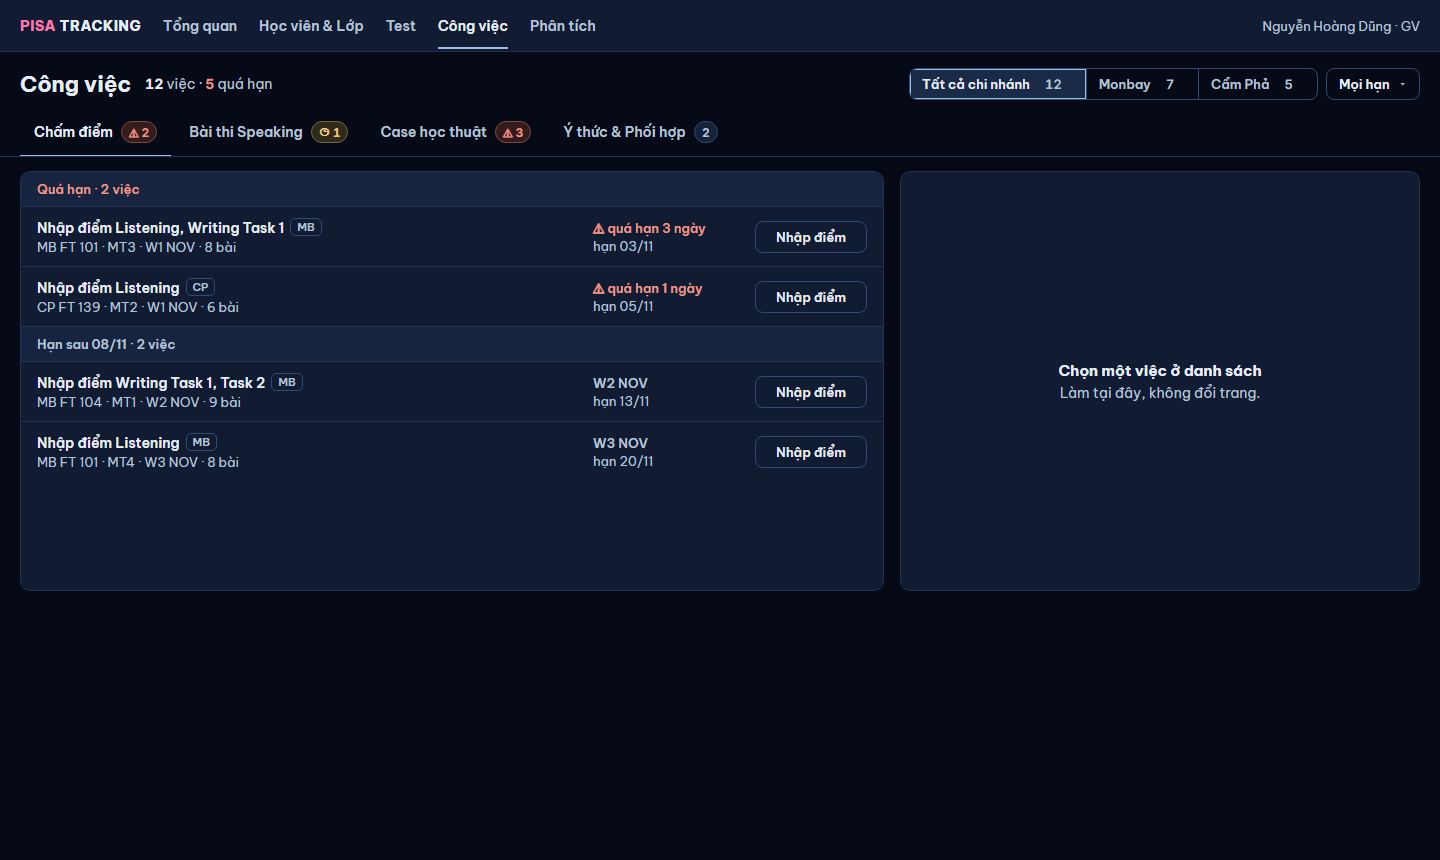
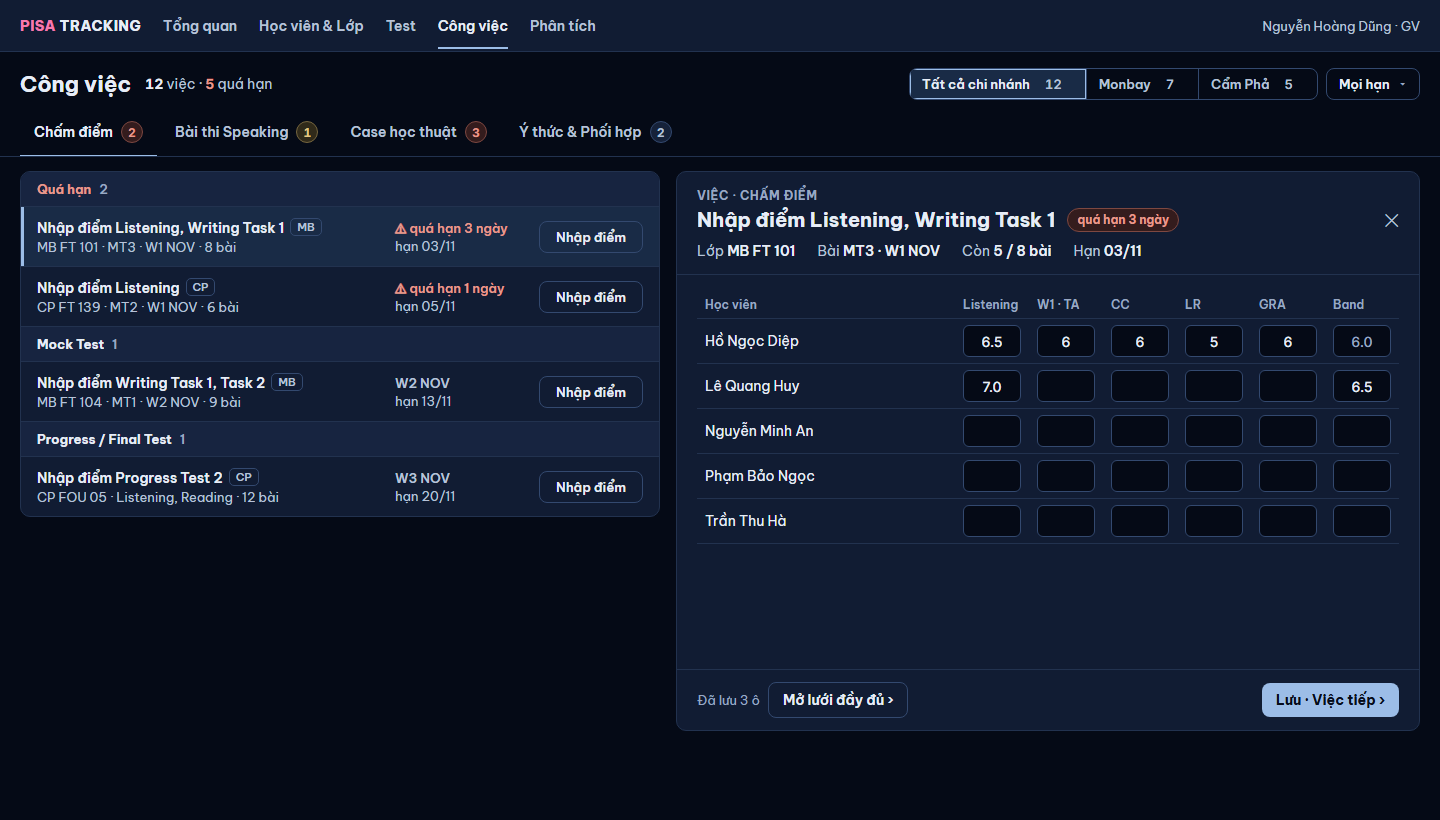
nháp v2 Công việc chia tab: badge số + màu, mục theo loại việc, panel rộng (chủ SP 06/11)

diff --git a/thiet-ke/v17-nhap/b.html b/thiet-ke/v17-nhap/b.html
@@ -2,44 +2,48 @@
 <link rel="stylesheet" href="https://fonts.googleapis.com/css2?family=Be+Vietnam+Pro:wght@400;500;600;700;800&family=Inter:wght@500;600;700&display=swap">
 <link rel="stylesheet" href="cv.css"><title>Nháp B</title>
 <style>body{display:flex;gap:28px;padding:20px;align-items:flex-start;background:#d9dde6}
-.leg{width:520px;display:grid;gap:12px}.leg .man{padding:16px;border-radius:10px}.leg .hang{display:flex;gap:10px;align-items:center;margin:6px 0}</style></head><body>
-<div class="man sang m375" style="min-height:780px;border-radius:10px;overflow:hidden">
+.leg{width:540px;display:grid;gap:12px}.leg .man{padding:16px;border-radius:10px}.leg .hang{display:flex;gap:10px;align-items:center;margin:6px 0}</style></head><body>
+<div class="man sang m375" style="min-height:860px;border-radius:10px;overflow:hidden">
   <div class="nav"><span class="logo"><b>PISA</b></span><span class="phai">Dũng · GV</span></div>
   <div class="dau">
     <h1>Công việc</h1><span class="tom"><b class="so">12</b> việc · <b class="so" style="color:var(--bad)">5</b> quá hạn</span>
     <div class="loc"><span class="seg" style="width:100%"><span class="dang" style="flex:1">Tất cả CN <span class="so">12</span></span><span style="flex:1">Monbay <span class="so">7</span></span><span style="flex:1">Cẩm Phả <span class="so">5</span></span></span></div>
   </div>
   <div class="tabs">
-    <span class="tab dang">Chấm điểm <span class="bd do">2</span></span>
+    <span class="tab">Chấm điểm <span class="bd do">2</span></span>
     <span class="tab">Speaking <span class="bd vang">1</span></span>
-    <span class="tab">Case học thuật <span class="bd do">3</span></span>
+    <span class="tab dang">Case học thuật <span class="bd do">3</span></span>
     <span class="tab">Ý thức <span class="bd trang">2</span></span>
   </div>
   <div class="than">
     <div class="ds">
-      <div class="nhom-han qua">Quá hạn · 2 việc</div>
-      <div class="viec"><div><div class="t1">Nhập điểm L, W1<span class="cn">MB</span></div><div class="t2">MB FT 101 · MT3 · 8 bài</div></div><span class="nut">Nhập</span>
-        <div class="cot-han"><div class="han qua">quá hạn 3 ngày</div></div></div>
-      <div class="viec"><div><div class="t1">Nhập điểm Listening<span class="cn">CP</span></div><div class="t2">CP FT 139 · MT2 · 6 bài</div></div><span class="nut">Nhập</span>
-        <div class="cot-han"><div class="han qua">quá hạn 1 ngày</div></div></div>
-      <div class="nhom-han">Hạn sau 08/11 · 2 việc</div>
-      <div class="viec"><div><div class="t1">Nhập điểm W1, W2<span class="cn">MB</span></div><div class="t2">MB FT 104 · MT1 · 9 bài</div></div><span class="nut">Nhập</span>
+      <div class="muc qua">Quá hạn <span class="n">3</span></div>
+      <div class="viec"><div><div class="t1">Mô tả Case Reading · MT3<span class="cn">CP</span></div><div class="t2">Mạc Lê Ngọc Linh · CP FT 139</div></div><span class="nut">Mô tả</span>
+        <div class="cot-han"><div class="han qua">quá hạn 24 ngày</div></div></div>
+      <div class="viec"><div><div class="t1">Kết quả PA · 2 em<span class="cn">CP</span></div><div class="t2">CP FT 139 · đợt W2 SEP</div></div><span class="nut">2 em ▾</span>
+        <div class="cot-han"><div class="han qua">quá hạn 10 ngày</div></div></div>
+      <div class="viec"><div><div class="t1">Xác nhận PA · Writing<span class="cn">MB</span></div><div class="t2">Vũ Hải Đăng · MB FT 101</div></div><span class="nut">Xác nhận</span>
+        <div class="cot-han"><div class="han qua">quá hạn 2 ngày</div></div></div>
+      <div class="muc">Mô tả Case <span class="n">1</span></div>
+      <div class="viec"><div><div class="t1">Mô tả Case Writing · MT3<span class="cn">CP</span></div><div class="t2">Tô Xuân Tùng · CP FT 139</div></div><span class="nut">Mô tả</span>
         <div class="cot-han"><div class="han xa">W2 NOV</div></div></div>
-      <div class="viec"><div><div class="t1">Nhập điểm Listening<span class="cn">MB</span></div><div class="t2">MB FT 101 · MT4 · 8 bài</div></div><span class="nut">Nhập</span>
-        <div class="cot-han"><div class="han xa">W3 NOV</div></div></div>
+      <div class="muc">Phương án <span class="n">1</span></div>
+      <div class="viec"><div><div class="t1">Xác nhận PA · Listening<span class="cn">CP</span></div><div class="t2">Đỗ Khắc Huy · CP FT 139</div></div><span class="nut">Xác nhận</span>
+        <div class="cot-han"><div class="han gan">còn 1 ngày</div></div></div>
     </div>
   </div>
 </div>
 <div class="leg">
-  <div class="man toi"><div style="font-weight:700;margin-bottom:6px">Badge trên tab (một badge / tab — trạng thái gấp nhất)</div>
-    <div class="hang"><span class="tab" style="padding:4px 0">Chấm điểm <span class="bd do">2</span></span><span style="color:var(--text-dim)">đỏ ⚠ = số việc <b style="color:var(--text)">quá hạn</b></span></div>
-    <div class="hang"><span class="tab" style="padding:4px 0">Bài thi Speaking <span class="bd vang">1</span></span><span style="color:var(--text-dim)">vàng ◷ = số việc <b style="color:var(--text)">gần hạn</b> (hôm nay – 2 ngày)</span></div>
+  <div class="man toi"><div style="font-weight:700;margin-bottom:6px">Badge trên tab — chỉ số + màu (một badge / tab, theo trạng thái gấp nhất)</div>
+    <div class="hang"><span class="tab" style="padding:4px 0">Chấm điểm <span class="bd do">2</span></span><span style="color:var(--text-dim)">đỏ = số việc <b style="color:var(--text)">quá hạn</b></span></div>
+    <div class="hang"><span class="tab" style="padding:4px 0">Bài thi Speaking <span class="bd vang">1</span></span><span style="color:var(--text-dim)">vàng = số việc <b style="color:var(--text)">gần hạn</b> (hôm nay – 2 ngày)</span></div>
     <div class="hang"><span class="tab" style="padding:4px 0">Ý thức &amp; Phối hợp <span class="bd trang">2</span></span><span style="color:var(--text-dim)">trắng = tổng việc, còn lâu mới tới hạn</span></div>
-    <div class="hang"><span style="color:var(--text-dim)">Tab không có việc → ẩn. Thứ tự tab cố định. Mở trang: chọn sẵn tab đầu tiên có badge đỏ.</span></div>
+    <div class="hang"><span style="color:var(--text-dim)">Trong tab: <b style="color:var(--text)">Quá hạn</b> lên đầu, rồi mục theo loại việc (Case: Mô tả Case · Phương án · Kết quả PA). Mục rỗng ẩn.</span></div>
   </div>
-  <div class="mk"><b>Nháp PTA — chưa duyệt, không lên web.</b><br>
-    A1 · GV dạy 2 chi nhánh: mặc định <b>Tất cả chi nhánh</b>, chọn Monbay / Cẩm Phả để lọc; mỗi dòng có thẻ nhỏ MB / CP (chỉ khi GV có &gt; 1 chi nhánh).<br>
-    A2 · QL Cẩm Phả xem "Của GV · Dũng": chỉ 5 việc ở Cẩm Phả, số quá hạn tính trong 5 việc đó; 7 việc ở Monbay chỉ QL Monbay thấy.<br>
-    B · 375: tab cuộn ngang, chọn chi nhánh full ngang.</div>
+  <div class="mk"><b>Nháp PTA v2 — chưa duyệt, không lên web.</b><br>
+    A1 · GV 2 chi nhánh · tab Chấm điểm · panel Nhập điểm.<br>
+    A2 · QL Cẩm Phả xem "Của GV · Dũng" · tab Case học thuật · panel Mô tả Case (làm thay).<br>
+    Danh sách 640 px, panel phần còn lại (~740 px): chữ một dòng, không "…".<br>
+    B · 375: tab cuộn ngang; bấm việc → panel mở toàn màn như hiện nay.</div>
 </div>
 </body></html>

diff --git a/thiet-ke/v17-nhap/cv.css b/thiet-ke/v17-nhap/cv.css
@@ -35,13 +35,45 @@ body { margin:0; background:#0b0f19; font-family:'Be Vietnam Pro', system-ui, sa
 .tab.dang { color:var(--text); border-bottom-color:var(--accent); }
 .bd { display:inline-flex; align-items:center; gap:3px; height:22px; min-width:24px; justify-content:center; padding:0 7px; border-radius:999px; font:700 12px Inter,'Be Vietnam Pro',sans-serif; font-variant-numeric:tabular-nums; }
 .bd.do { background:var(--bad-nen); color:var(--bad); border:1px solid var(--bad-vien); }
-.bd.do::before { content:"⚠"; font-size:11px; }
 .bd.vang { background:var(--soon-nen); color:var(--soon); border:1px solid var(--soon-vien); }
-.bd.vang::before { content:"◷"; font-size:12px; }
 .bd.trang { background:var(--muted-nen); color:var(--text-dim); border:1px solid var(--line-strong); }
-.tong { color:var(--text-faint); font-weight:500; font-size:12px; }
-/* thân */
-.than { display:grid; grid-template-columns:minmax(0,1fr) 520px; gap:16px; padding:14px 20px 20px; }
+.bd { height:22px; min-width:22px; padding:0 6px; }
+/* thân: danh sách 640 · panel phần còn lại (cân đối, chữ không xuống dòng / "…") */
+.than { display:grid; grid-template-columns:640px minmax(0,1fr); gap:16px; padding:14px 20px 20px; align-items:start; }
+.muc { padding:9px 16px; font-weight:700; font-size:13px; color:var(--text); background:var(--surface-2); border-top:1px solid var(--line); display:flex; gap:8px; align-items:center; }
+.muc .n { color:var(--text-faint); font-weight:600; }
+.muc.qua { color:var(--bad); }
+.ds .muc:first-child { border-top:0; }
+.viec .t1, .viec .t2 { white-space:nowrap; }
+.viec.chon-dang { box-shadow:inset 3px 0 0 var(--accent); background:var(--accent-soft); }
+/* panel việc */
+.pv { background:var(--surface); border:1px solid var(--line); border-radius:10px; display:flex; flex-direction:column; min-height:560px; }
+.pv-dau { padding:16px 20px 14px; border-bottom:1px solid var(--line); }
+.pv-loai { font:700 12px 'Be Vietnam Pro'; letter-spacing:.6px; color:var(--text-faint); text-transform:uppercase; }
+.pv-tieu { display:flex; align-items:center; gap:12px; margin-top:4px; }
+.pv-tieu h2 { margin:0; font-size:20px; font-weight:700; }
+.pv-tieu .x { margin-left:auto; color:var(--text-dim); font-size:18px; }
+.chip-qua { display:inline-flex; height:24px; align-items:center; padding:0 9px; border-radius:999px; background:var(--bad-nen); color:var(--bad); border:1px solid var(--bad-vien); font-weight:700; font-size:12px; white-space:nowrap; }
+.facts { display:flex; flex-wrap:wrap; gap:6px 22px; margin-top:10px; font-size:14px; }
+.facts span { color:var(--text-dim); } .facts b { color:var(--text); font-weight:600; }
+.pv-than { padding:16px 20px; display:grid; gap:14px; flex:1; align-content:start; }
+.nhan { font-weight:600; font-size:13px; color:var(--text-dim); margin-bottom:6px; }
+.o-nhap { border:1px solid var(--line-strong); border-radius:8px; padding:9px 12px; background:var(--bg); min-height:40px; color:var(--text); }
+.o-nhap.lon { min-height:96px; color:var(--text-faint); }
+.dem { text-align:right; font-size:12px; color:var(--text-faint); margin-top:4px; }
+.chips { display:flex; flex-wrap:wrap; gap:6px; }
+.chips span { padding:6px 12px; border:1px solid var(--line-strong); border-radius:999px; font-weight:600; font-size:13px; white-space:nowrap; }
+.chips span.dang { background:var(--accent-soft); box-shadow:inset 0 0 0 1px var(--accent); }
+.dai-diem { display:flex; flex-wrap:wrap; gap:8px 18px; padding:10px 12px; border-radius:8px; background:var(--surface-2); font-size:14px; }
+.dai-diem b { font-family:Inter; } .dai-diem .xau { color:var(--bad); font-weight:700; }
+.pv-chan { padding:12px 20px; border-top:1px solid var(--line); display:flex; gap:8px; align-items:center; }
+.pv-chan .tt { color:var(--text-faint); font-size:13px; }
+.pv-chan .nut-chinh { margin-left:auto; padding:8px 14px; border-radius:8px; background:var(--accent); color:#060c1a; font-weight:700; font-size:14px; white-space:nowrap; }
+.pv-chan .nut { padding:8px 14px; font-size:14px; }
+table.luoi { width:100%; border-collapse:collapse; font-size:14px; }
+.luoi th { text-align:left; font-weight:600; font-size:12px; color:var(--text-faint); padding:6px 8px; border-bottom:1px solid var(--line); white-space:nowrap; }
+.luoi td { padding:6px 8px; border-bottom:1px solid var(--line); white-space:nowrap; }
+.luoi td.o { width:74px; } .luoi .oo { border:1px solid var(--line-strong); border-radius:6px; height:32px; display:flex; align-items:center; justify-content:center; background:var(--bg); font-family:Inter; }
 .ds { background:var(--surface); border:1px solid var(--line); border-radius:10px; overflow:hidden; }
 .nhom-han { padding:9px 16px; font-weight:600; font-size:13px; color:var(--text-dim); background:var(--surface-2); border-top:1px solid var(--line); }
 .nhom-han:first-child { border-top:0; }
@@ -51,7 +83,7 @@ body { margin:0; background:#0b0f19; font-family:'Be Vietnam Pro', system-ui, sa
 .viec .t1 { font-weight:600; } .viec .t2 { color:var(--text-dim); font-size:13px; margin-top:2px; }
 .cn { display:inline-flex; height:18px; align-items:center; padding:0 6px; margin-left:6px; border-radius:5px; border:1px solid var(--line-strong); font:600 11px 'Be Vietnam Pro'; color:var(--text-dim); vertical-align:2px; }
 .han { font-weight:600; font-size:13px; } .han.qua { color:var(--bad); } .han.qua::before { content:"⚠ "; }
-.han.gan { color:var(--soon); } .han.gan::before { content:"◷ "; } .han.xa { color:var(--text-dim); }
+.han.gan { color:var(--soon); } .han.gan::before { content:"⚠ "; } .han.xa { color:var(--text-dim); }
 .ai { color:var(--text-dim); font-size:13px; margin-top:2px; }
 .nut { display:inline-flex; justify-content:center; padding:7px 10px; border:1px solid var(--line-strong); border-radius:8px; font-weight:600; font-size:13px; }
 .pn { background:var(--surface); border:1px solid var(--line); border-radius:10px; min-height:420px; display:flex; align-items:center; justify-content:center; text-align:center; color:var(--text-dim); }
@@ -72,3 +104,6 @@ body { margin:0; background:#0b0f19; font-family:'Be Vietnam Pro', system-ui, sa
 .mk { background:#fff8d6; color:#3b3000; border:1px dashed #b49a2c; border-radius:8px; padding:10px 14px; font:13px/1.5 'Be Vietnam Pro'; }
 .mk b { color:#000; }
 .m375 .seg span { padding:7px 6px; text-align:center; font-size:12px; }
+.than .viec { grid-template-columns:minmax(0,1fr) 132px 104px; }
+.m375 .than .viec { grid-template-columns:minmax(0,1fr) auto; }
+.m375 .viec .t1, .m375 .viec .t2 { white-space:normal; }

diff --git a/thiet-ke/v17-nhap/a2.html b/thiet-ke/v17-nhap/a2.html
@@ -1,10 +1,10 @@
 <!doctype html><html lang="vi"><head><meta charset="utf-8">
 <link rel="stylesheet" href="https://fonts.googleapis.com/css2?family=Be+Vietnam+Pro:wght@400;500;600;700;800&family=Inter:wght@500;600;700&display=swap">
 <link rel="stylesheet" href="cv.css"><title>Nháp A2</title></head><body>
-<div class="man toi" style="width:1440px;min-height:760px">
+<div class="man toi" style="width:1440px;min-height:820px">
   <div class="nav"><span class="logo"><b>PISA</b> TRACKING</span><a>Tổng quan</a><a>Học viên &amp; Lớp</a><a>Test</a><a class="dang">Công việc</a><a>Phân tích</a><span class="phai">QL Cẩm Phả</span></div>
   <div class="dau">
-    <h1>Công việc</h1><span class="tom">Nguyễn Hoàng Dũng · <b class="so">5</b> việc ở Cẩm Phả · <b class="so" style="color:var(--bad)">3</b> quá hạn</span>
+    <h1>Công việc</h1><span class="tom">Nguyễn Hoàng Dũng · <b class="so">7</b> việc ở Cẩm Phả · <b class="so" style="color:var(--bad)">3</b> quá hạn</span>
     <div class="loc">
       <span class="seg"><span>Của tôi <span class="so">9</span></span><span class="dang">Của GV <span class="so">213</span></span><span>Tất cả <span class="so">237</span></span></span>
       <span class="chon">Nguyễn Hoàng Dũng</span><span class="chon">Mọi khung</span><span class="chon"><i>Chi nhánh</i> Cẩm Phả</span><span class="chon">Mọi hạn</span>
@@ -17,16 +17,31 @@
   </div>
   <div class="than">
     <div class="ds">
-      <div class="nhom-han qua">Quá hạn · 2 việc</div>
-      <div class="viec"><div><div class="t1">Mô tả Case Reading · MT3</div><div class="t2">Mạc Lê Ngọc Linh · CP FT 139 · SOS 3</div></div>
-        <div class="cot-han"><div class="han qua">quá hạn 24 ngày</div><div class="ai">Nguyễn Hoàng Dũng</div></div><span class="nut">Làm thay</span></div>
-      <div class="viec"><div><div class="t1">Kết quả PA · CP FT 139 · 2 em</div><div class="t2">2 em quá hạn · W2 SEP</div></div>
-        <div class="cot-han"><div class="han qua">quá hạn 10 ngày</div><div class="ai">Nguyễn Hoàng Dũng</div></div><span class="nut">2 em ▾</span></div>
-      <div class="nhom-han gan">Hạn đến 08/11 · 1 việc</div>
+      <div class="muc qua">Quá hạn <span class="n">2</span></div>
+      <div class="viec chon-dang"><div><div class="t1">Mô tả Case Reading · MT3</div><div class="t2">Mạc Lê Ngọc Linh · CP FT 139 · SOS 3</div></div>
+        <div class="cot-han"><div class="han qua">quá hạn 24 ngày</div><div class="ai">hạn 13/10</div></div><span class="nut">Làm thay</span></div>
+      <div class="viec"><div><div class="t1">Kết quả PA · CP FT 139 · 2 em</div><div class="t2">2 em quá hạn · đợt W2 SEP</div></div>
+        <div class="cot-han"><div class="han qua">quá hạn 10 ngày</div><div class="ai">hạn 27/10</div></div><span class="nut">2 em ▾</span></div>
+      <div class="muc">Mô tả Case <span class="n">1</span></div>
+      <div class="viec"><div><div class="t1">Mô tả Case Writing · MT3</div><div class="t2">Tô Xuân Tùng · CP FT 139 · SOS 2</div></div>
+        <div class="cot-han"><div class="han xa">W2 NOV</div><div class="ai">hạn 12/11</div></div><span class="nut">Làm thay</span></div>
+      <div class="muc">Phương án <span class="n">2</span></div>
       <div class="viec"><div><div class="t1">Xác nhận PA · Listening</div><div class="t2">Đỗ Khắc Huy · CP FT 139 · MT2</div></div>
-        <div class="cot-han"><div class="han gan">còn 1 ngày</div><div class="ai">Nguyễn Hoàng Dũng</div></div><span class="nut">Làm thay</span></div>
+        <div class="cot-han"><div class="han gan">còn 1 ngày</div><div class="ai">hạn 08/11</div></div><span class="nut">Làm thay</span></div>
+      <div class="viec"><div><div class="t1">Thêm PA · Reading</div><div class="t2">Bùi Thuỳ Linh · CP FT 139 · MT1</div></div>
+        <div class="cot-han"><div class="han xa">W2 NOV</div><div class="ai">hạn 14/11</div></div><span class="nut">Làm thay</span></div>
     </div>
-    <div class="pn"><div><b>Chọn một việc ở danh sách</b>Làm tại đây, không đổi trang.</div></div>
+    <div class="pv">
+      <div class="pv-dau"><div class="pv-loai">Việc · Case học thuật · làm thay Nguyễn Hoàng Dũng</div>
+        <div class="pv-tieu"><h2>Mô tả Case Reading · MT3</h2><span class="chip-qua">quá hạn 24 ngày</span><span class="x">✕</span></div>
+        <div class="facts"><span>Học viên <b>Mạc Lê Ngọc Linh</b></span><span>Lớp <b>CP FT 139</b></span><span>Mức <b>SOS 3</b></span><span>Phụ trách <b>Nguyễn Hoàng Dũng</b></span></div></div>
+      <div class="pv-than">
+        <div class="dai-diem"><span>MT3 Reading <b class="xau">4.5</b></span><span>Target <b>6.0</b></span><span>MT2 <b>5.0</b></span><span>Kỳ vọng MT3 <b>5.5</b></span></div>
+        <div><div class="nhan">Nhóm nguyên nhân</div><div class="chips"><span class="dang">Từ vựng</span><span>Kỹ năng làm bài</span><span>Thời gian</span><span>Thái độ / chuyên cần</span><span>Khác</span></div></div>
+        <div><div class="nhan">Mô tả</div><div class="o-nhap lon">Ví dụ: sai nhiều ở dạng True / False / Not Given, đọc chậm, chưa kịp làm phần 3…</div><div class="dem">0 / 200</div></div>
+      </div>
+      <div class="pv-chan"><span class="tt">Chưa lưu</span><span class="nut">Đóng</span><span class="nut-chinh">Lưu · Việc tiếp ›</span></div>
+    </div>
   </div>
 </div>
 </body></html>

diff --git a/thiet-ke/v17-nhap/a1.html b/thiet-ke/v17-nhap/a1.html
@@ -1,7 +1,7 @@
 <!doctype html><html lang="vi"><head><meta charset="utf-8">
 <link rel="stylesheet" href="https://fonts.googleapis.com/css2?family=Be+Vietnam+Pro:wght@400;500;600;700;800&family=Inter:wght@500;600;700&display=swap">
 <link rel="stylesheet" href="cv.css"><title>Nháp A1</title></head><body>
-<div class="man toi" style="width:1440px;min-height:860px">
+<div class="man toi" style="width:1440px;min-height:820px">
   <div class="nav"><span class="logo"><b>PISA</b> TRACKING</span><a>Tổng quan</a><a>Học viên &amp; Lớp</a><a>Test</a><a class="dang">Công việc</a><a>Phân tích</a><span class="phai">Nguyễn Hoàng Dũng · GV</span></div>
   <div class="dau">
     <h1>Công việc</h1><span class="tom"><b class="so">12</b> việc · <b class="so" style="color:var(--bad)">5</b> quá hạn</span>
@@ -18,18 +18,33 @@
   </div>
   <div class="than">
     <div class="ds">
-      <div class="nhom-han qua">Quá hạn · 2 việc</div>
-      <div class="viec"><div><div class="t1">Nhập điểm Listening, Writing Task 1<span class="cn">MB</span></div><div class="t2">MB FT 101 · MT3 · W1 NOV · 8 bài</div></div>
+      <div class="muc qua">Quá hạn <span class="n">2</span></div>
+      <div class="viec chon-dang"><div><div class="t1">Nhập điểm Listening, Writing Task 1<span class="cn">MB</span></div><div class="t2">MB FT 101 · MT3 · W1 NOV · 8 bài</div></div>
         <div class="cot-han"><div class="han qua">quá hạn 3 ngày</div><div class="ai">hạn 03/11</div></div><span class="nut">Nhập điểm</span></div>
       <div class="viec"><div><div class="t1">Nhập điểm Listening<span class="cn">CP</span></div><div class="t2">CP FT 139 · MT2 · W1 NOV · 6 bài</div></div>
         <div class="cot-han"><div class="han qua">quá hạn 1 ngày</div><div class="ai">hạn 05/11</div></div><span class="nut">Nhập điểm</span></div>
-      <div class="nhom-han">Hạn sau 08/11 · 2 việc</div>
+      <div class="muc">Mock Test <span class="n">1</span></div>
       <div class="viec"><div><div class="t1">Nhập điểm Writing Task 1, Task 2<span class="cn">MB</span></div><div class="t2">MB FT 104 · MT1 · W2 NOV · 9 bài</div></div>
         <div class="cot-han"><div class="han xa">W2 NOV</div><div class="ai">hạn 13/11</div></div><span class="nut">Nhập điểm</span></div>
-      <div class="viec"><div><div class="t1">Nhập điểm Listening<span class="cn">MB</span></div><div class="t2">MB FT 101 · MT4 · W3 NOV · 8 bài</div></div>
+      <div class="muc">Progress / Final Test <span class="n">1</span></div>
+      <div class="viec"><div><div class="t1">Nhập điểm Progress Test 2<span class="cn">CP</span></div><div class="t2">CP FOU 05 · Listening, Reading · 12 bài</div></div>
         <div class="cot-han"><div class="han xa">W3 NOV</div><div class="ai">hạn 20/11</div></div><span class="nut">Nhập điểm</span></div>
     </div>
-    <div class="pn"><div><b>Chọn một việc ở danh sách</b>Làm tại đây, không đổi trang.</div></div>
+    <div class="pv">
+      <div class="pv-dau"><div class="pv-loai">Việc · Chấm điểm</div>
+        <div class="pv-tieu"><h2>Nhập điểm Listening, Writing Task 1</h2><span class="chip-qua">quá hạn 3 ngày</span><span class="x">✕</span></div>
+        <div class="facts"><span>Lớp <b>MB FT 101</b></span><span>Bài <b>MT3 · W1 NOV</b></span><span>Còn <b>5 / 8 bài</b></span><span>Hạn <b>03/11</b></span></div></div>
+      <div class="pv-than">
+        <table class="luoi"><thead><tr><th>Học viên</th><th>Listening</th><th>W1 · TA</th><th>CC</th><th>LR</th><th>GRA</th><th>Band</th></tr></thead><tbody>
+          <tr><td>Hồ Ngọc Diệp</td><td class="o"><div class="oo">6.5</div></td><td class="o"><div class="oo">6</div></td><td class="o"><div class="oo">6</div></td><td class="o"><div class="oo">5</div></td><td class="o"><div class="oo">6</div></td><td class="o"><div class="oo" style="color:var(--text-faint)">6.0</div></td></tr>
+          <tr><td>Lê Quang Huy</td><td class="o"><div class="oo">7.0</div></td><td class="o"><div class="oo"></div></td><td class="o"><div class="oo"></div></td><td class="o"><div class="oo"></div></td><td class="o"><div class="oo"></div></td><td class="o"><div class="oo">6.5</div></td></tr>
+          <tr><td>Nguyễn Minh An</td><td class="o"><div class="oo"></div></td><td class="o"><div class="oo"></div></td><td class="o"><div class="oo"></div></td><td class="o"><div class="oo"></div></td><td class="o"><div class="oo"></div></td><td class="o"><div class="oo"></div></td></tr>
+          <tr><td>Phạm Bảo Ngọc</td><td class="o"><div class="oo"></div></td><td class="o"><div class="oo"></div></td><td class="o"><div class="oo"></div></td><td class="o"><div class="oo"></div></td><td class="o"><div class="oo"></div></td><td class="o"><div class="oo"></div></td></tr>
+          <tr><td>Trần Thu Hà</td><td class="o"><div class="oo"></div></td><td class="o"><div class="oo"></div></td><td class="o"><div class="oo"></div></td><td class="o"><div class="oo"></div></td><td class="o"><div class="oo"></div></td><td class="o"><div class="oo"></div></td></tr>
+        </tbody></table>
+      </div>
+      <div class="pv-chan"><span class="tt">Đã lưu 3 ô</span><span class="nut">Mở lưới đầy đủ ›</span><span class="nut-chinh">Lưu · Việc tiếp ›</span></div>
+    </div>
   </div>
 </div>
 </body></html>
